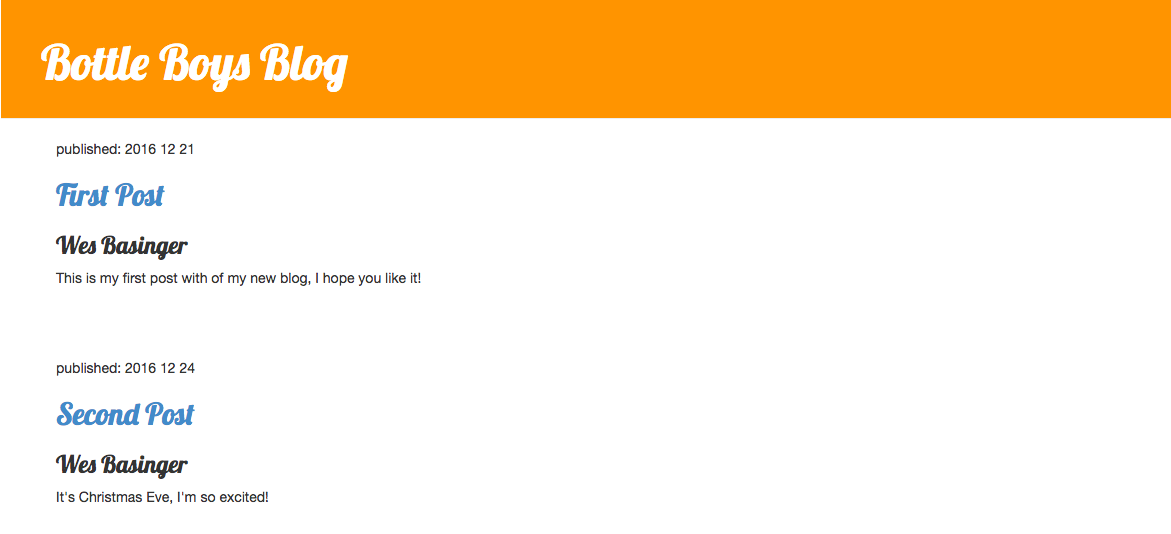
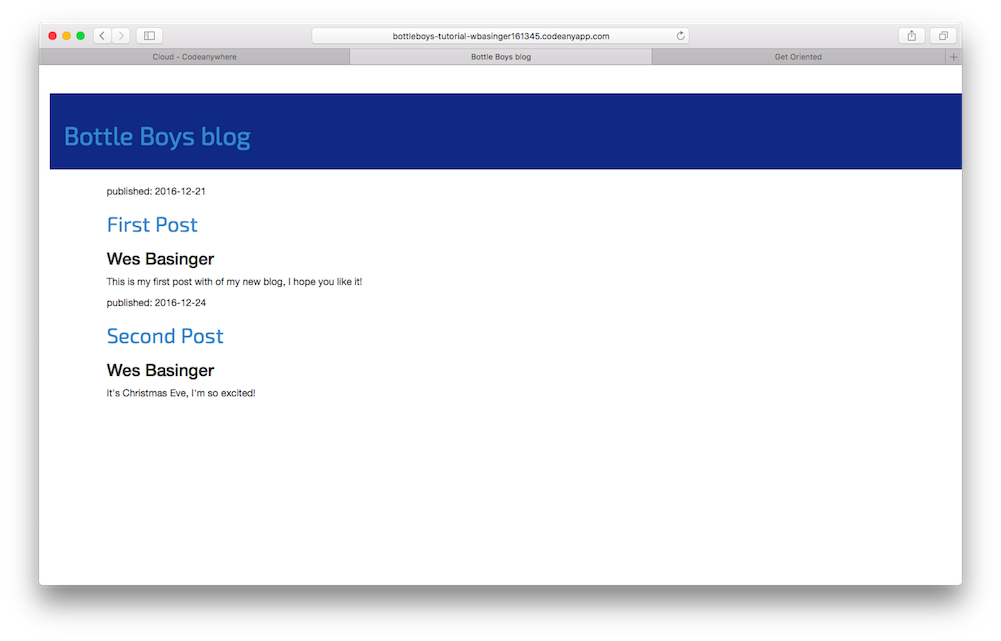
Fixed the CSS page.

diff --git a/css/README.md b/css/README.md
@@ -28,7 +28,7 @@ This doesn't add any files to your project. It just points to files that exist o
 
 ![Figure 14.1](images/bootstrap1.png)
 
-Looking nicer already!
+Looking nicer already!  But things are a little too tight to the left, let's fix that with a CSS style sheet of our own.
 
 
 ## Static files in Bottle
@@ -109,22 +109,19 @@ Time to write some CSS! Open up the `static/blog.css` file in your code editor.
 
 We won't be going too deep into customizing and learning about CSS here. It's pretty easy and you can learn it on your own after this workshop. There is a recommendation for a free course to learn more at the end of this page.
 
-But let's do at least a little. Maybe we could change the color of our header?
-To understand colors, computers use special codes. These codes start with `#` followed by 6 letters (A–F) and numbers (0–9). For example, the code for blue is `#0000FF`. You can find the color codes for many colors here: http://www.colorpicker.com/. You may also use [predefined colors](http://www.w3schools.com/colors/colors_names.asp), such as `red` and `green`.
+But let's do at least a little. Maybe we could change the padding on the left side?
+To understand spacing, computers use pixel units.
 
 In your `static/blog.css` file you should add the following code:
 
 {% filename %}static/blog.css{% endfilename %}
 ```css
-h1 a {
-    border: solid;
-    border-style: groove;
-    border-width: 4px;
-    padding: 4px
+body {
+    padding-left: 15px;
 }
 ```
 
-`h1 a` is a CSS Selector. This means we're applying our styles to any `a` element inside of an `h1` element. So when we have something like `<h1><a href="">link</a></h1>`, the `h1 a` style will apply. In this case, we're telling it to change its color to `#FCA205`, which is orange. Of course, you can put your own color here!
+`body` is a CSS Selector. This means we're applying our styles to the `body` element. So this rule will apply to anything within the body tags and will override any Bootstrap stylings from above.
 
 In a CSS file we determine styles for elements in the HTML file. The first way we identify elements is with the element name. You might remember these as tags from the HTML section. Things like `a`, `h1`, and `body` are all examples of element names.
 We also identify elements by the attribute `class` or the attribute `id`. Class and id are names you give the element by yourself. Classes define groups of elements, and ids point to specific elements. For example, you could identify the following tag by using the tag name `a`, the class `external_link`, or the id `link_to_wiki_page`:
@@ -174,23 +171,10 @@ Your file should now look like this:
 
 OK, save the file and refresh the site!
 
-![Border]('images/border.png')
+![Border]('images/padding.png')
 
 
-Nice work! Maybe we would also like to give our website a little air and increase the margin on the left side? Let's try this!  Add another selector in your css file.
-
-{% filename %}blog/static/css/blog.css{% endfilename %}
-```css
-body {
-    padding-left: 15px;
-}
-```
-
-Add that to your CSS, save the file and see how it works!
-
-![Padding](images/padding.png)
-
-Maybe we can customize the font in our header? Paste this into your `<head>` in `views/index.html` file:
+Nice work! Do you notice the increased spacing on the left hand side?  Maybe we can customize the font in our header? Paste this into your `<head>` in `views/index.html` file:
 
 {% filename %}views/index.html{% endfilename %}
 ```html
@@ -199,22 +183,18 @@ Maybe we can customize the font in our header? Paste this into your `<head>` in 
 
 As before, check the order and place before the link to `static/blog.css`. This line will import a font called *Exo 2* from Google Fonts (https://www.google.com/fonts).
 
-Find the `h1 a` declaration block (the code between braces `{` and `}`) in the CSS file `views/blog.css`.  Now add the line `font-family: 'Exo 2';` between the braces, and refresh the page:
+Find the `h1 a` declaration block (the code between braces `{` and `}`) in the CSS file `views/blog.css`.  Now add the line `font-family: 'Exo 2';` between the braces (before or after the body declaration), and refresh the page:
 
 {% filename %}views/blog.css{% endfilename %}
 ```css
 h1 a {
-    border: solid;
-    border-style: groove;
-    border-width: 4px;
-    padding: 4px;
     font-family: 'Exo 2';
 }
 ```
 
 ![Figure 14.3](images/font.png)
 
-The heading has disappeared for now, but it will be back when we turn the background color to blue.
+Hopefully you can see the slight change in the font family heading.
 
 As mentioned above, CSS has a concept of classes. These allow you to name a part of the HTML code and apply styles only to this part, without affecting other parts. This can be super helpful! Maybe you have two divs that are doing something different (like your header and your post).  A class can help you make them look different.
 
@@ -237,58 +217,6 @@ And now add a class `post` to your `div` containing a blog post.
   <h3>{{post["author"]}}</h3>
   <p>{{post["body"]}}</p>
 </div>
-```
-
-We will now add declaration blocks to different selectors. Selectors starting with `.` relate to classes. There are many great tutorials and explanations about CSS on the Web that can help you understand the following code. For now, just copy and paste it into your `static/blog.css` file:
-
-{% filename %}static/blog.css{% endfilename %}
-```css
-.page-header {
-    background-color: #4286f4;
-    margin-top: 0;
-    padding: 20px 20px 20px 40px;
-}
-
-.page-header h1, .page-header h1 a, .page-header h1 a:visited, .page-header h1 a:active {
-    color: #ffffff;
-    font-size: 36pt;
-    text-decoration: none;
-}
-
-.content {
-    margin-left: 40px;
-}
-
-h1, h2, h3, h4 {
-    font-family: 'Exo 2', sans-serif;
-}
-
-.date {
-    color: #828282;
-}
-
-.save {
-    float: right;
-}
-
-.post-form textarea, .post-form input {
-    width: 100%;
-}
-
-.top-menu, .top-menu:hover, .top-menu:visited {
-    color: #ffffff;
-    float: right;
-    font-size: 26pt;
-    margin-right: 20px;
-}
-
-.post {
-    margin-bottom: 70px;
-}
-
-.post h1 a, .post h1 a:visited {
-    color: #000000;
-}
 ```
 
 Then surround the HTML code which displays the posts with declarations of classes. Replace this:
@@ -324,10 +252,66 @@ in the `view/index.html` with this:
   </div>
 </div>
 ```
+If you got lost, here's how the entire `index.html` should look.
 
-Save those files and refresh your website.
+{% filename %}views/index.html{% endfilename %}
+```html
+<html>
+    <head>
+        <title>Bottle Boys blog</title>
+        <link rel="stylesheet" href="//maxcdn.bootstrapcdn.com/bootstrap/3.2.0/css/bootstrap.min.css">
+        <link rel="stylesheet" href="//maxcdn.bootstrapcdn.com/bootstrap/3.2.0/css/bootstrap-theme.min.css">
+        <link href="https://fonts.googleapis.com/css?family=Exo+2" rel="stylesheet">
+        <link rel="stylesheet" href="/static/blog.css">
+    </head>
+    <body>
+        <div class="page-header">
+            <h1><a href="/">Bottle Boys blog</a></h1>
+        </div>
+      <div class="content container">
+        <div class="row">
+            <div class="col-md-8">
+              % for post in posts:
+                <div class="post">
+                  <p>published: {{post["date"]}}</p>
+                  <h2><a href="">{{post["title"]}}</a></h2>
+                  <h3>{{post["author"]}}</h3>
+                  <p>{{post["body"]}}</p>
+                </div>
+              % end
+            </div>
+        </div>
+      </div>
+    </body>
+</html>
+```
 
-![Figure 14.4](images/final.png)
+Save that file and let's add some more custom styling with `blog.css`.  When finished, it should contain the following style rules.
+
+{% filename %}static/blog.css{% endfilename %}
+```css
+body {
+    padding-left: 15px;
+}
+h1 a {
+    font-family: 'Exo 2';
+}
+.page-header {
+  background-color: #033482;
+  color: white;
+  padding: 20px;
+}
+
+.post h2 {
+  font-family: 'Exo 2';
+}
+.content-container {
+  background-color: #949fb2;
+}
+```
+Save all files, restart the server and reload the page.
+
+![Final](images/final.png)
 
 Woohoo! Looks awesome, right?
 Look at the code we just pasted to find the places where we added classes in the HTML and used them in the CSS. Where would you make the change if you wanted the date to be turquoise?
